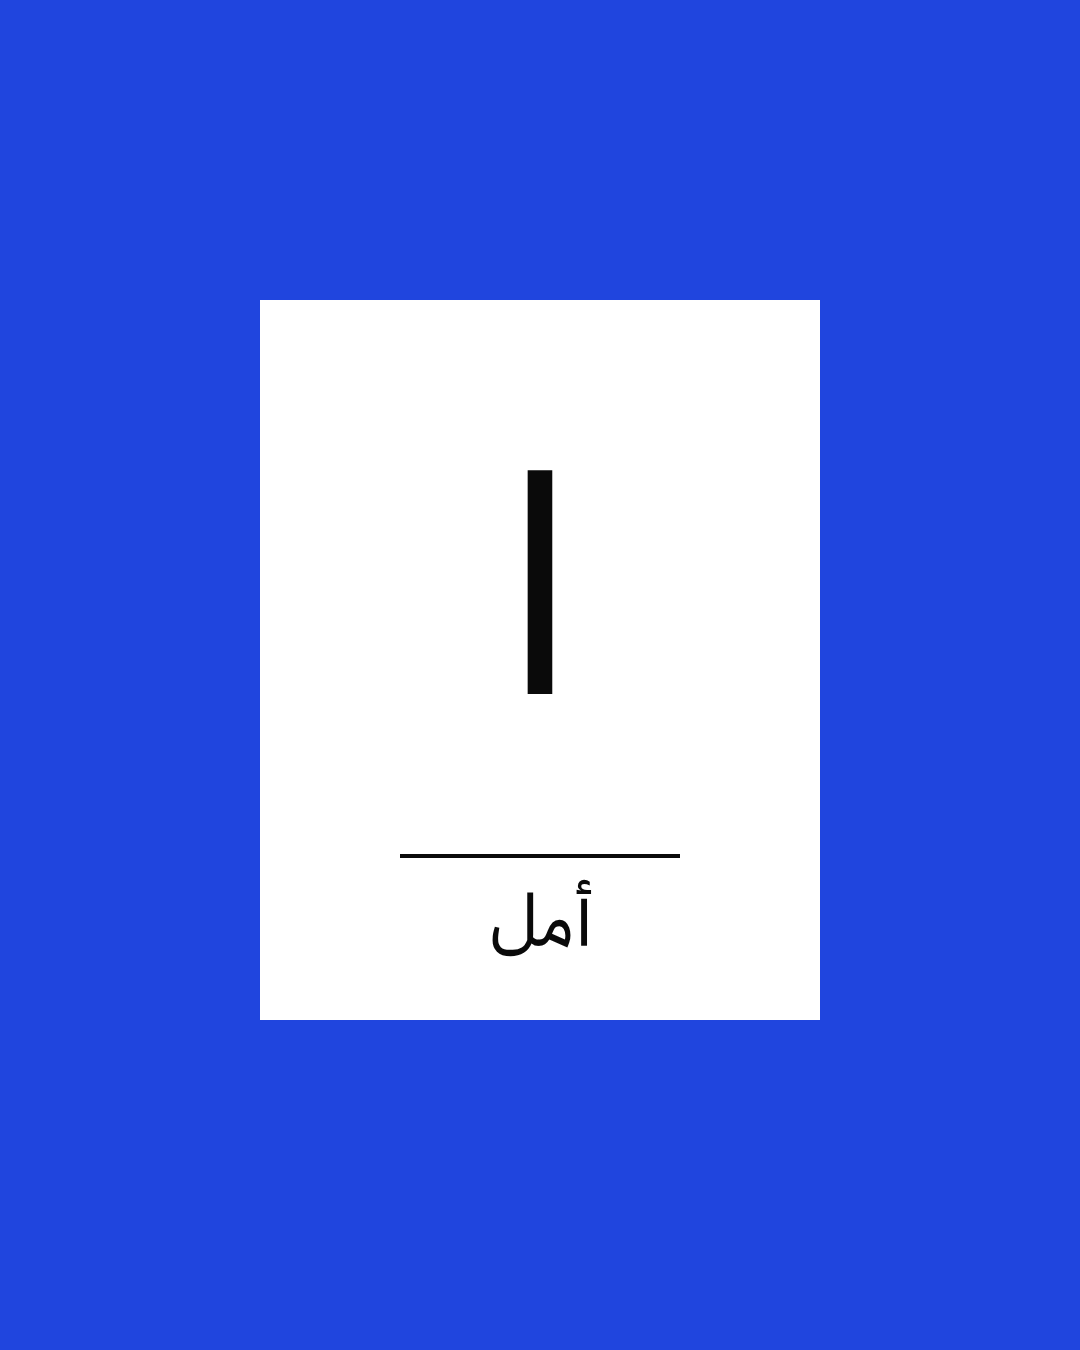
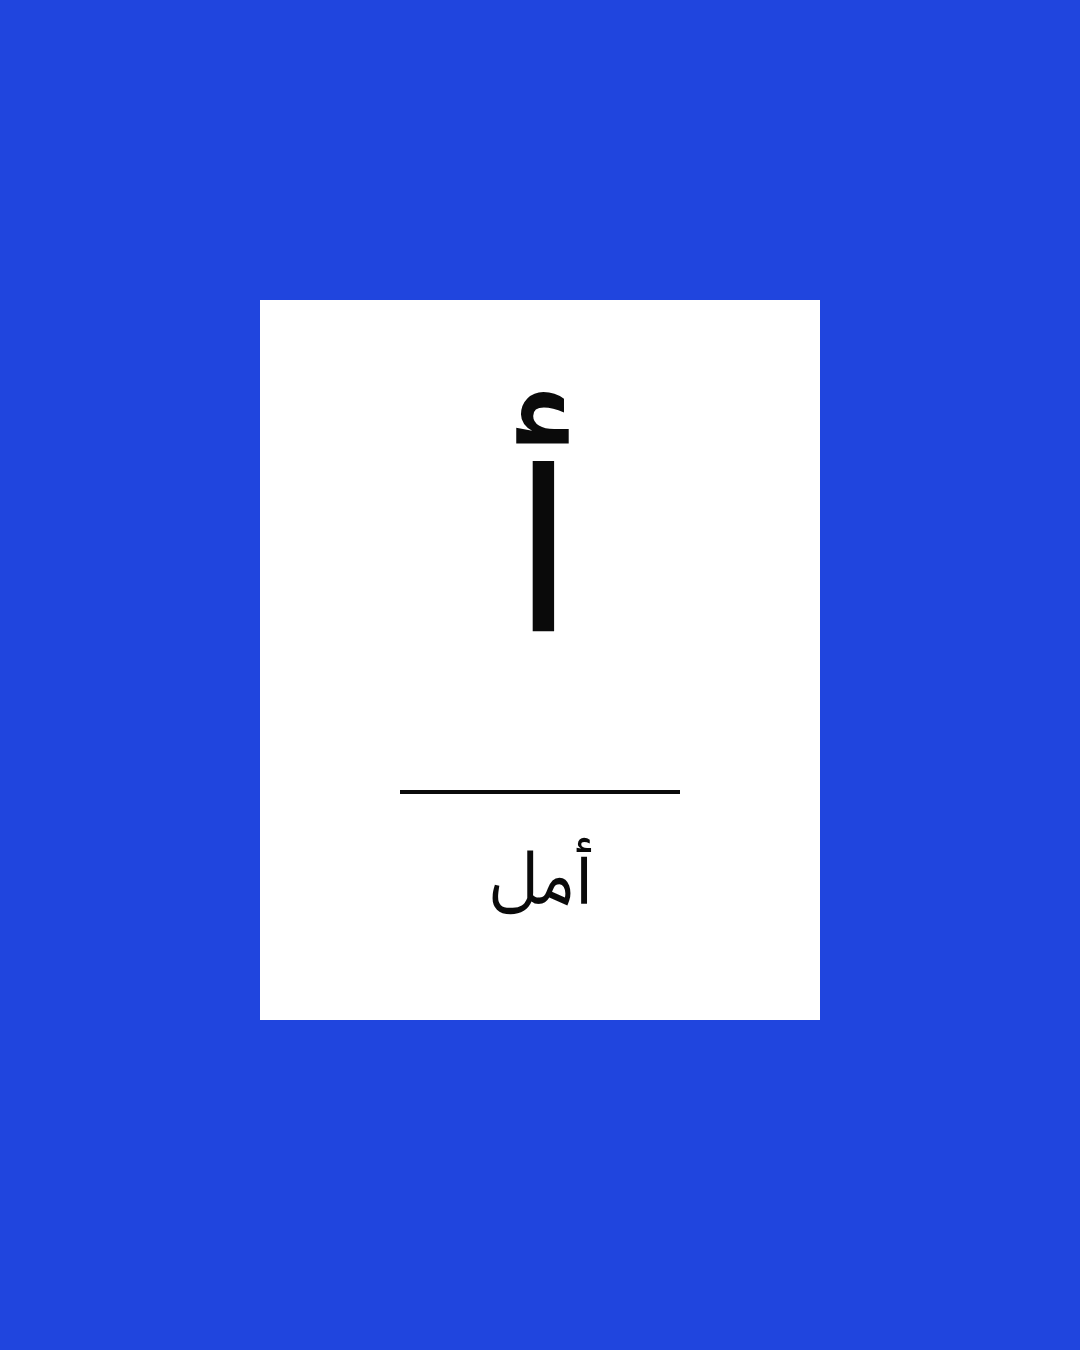
Elections: أ with its hamza, and the Arabic slips balanced against the Hebrew
Nir, 27 Oct: أمل begins with أ, so the Arabic tray and the stills carry the
alef with its hamza. The Arabic slips now share the Hebrew rule and word
line; the letters are set a touch smaller and higher so sin and hah clear
the rule, and their optical centre sits with the Hebrew letters'.

Claude-Session: https://claude.ai/code/session_01QmomKUobm2RviE4ywroAdi

Changed region(s): [[0.4583, 0.6222, 0.55, 0.7156], [0.4583, 0.28, 0.5194, 0.5289]]

diff --git a/motion/elections/elections-board.html b/motion/elections/elections-board.html
@@ -87,7 +87,7 @@ var EMBLEM={"bg": "<rect width=\"1080\" height=\"1350\" fill=\"#2045DE\"/>", "st
 var COPY={
   kalpi:{ letters:'אבגדהוזח', last:'הצבעתי', end:'הצבעתי!' },
   trayHope: { letters:'אבגדהוזחטיכלמנסעפצקרשת ', stops:'תשחי', words:{'ת':'תקווה','ש':'שלום','ח':'חיים','י':'ישראל'} },
-  trayAr: { letters:'ابتثجحخدذرزسشصضطظعغفقكلمنهوي ', stops:'اسحف', words:{'ا':'أمل','س':'سلام','ح':'حياة','ف':'فلسطين'} },
+  trayAr: { letters:'أبتثجحخدذرزسشصضطظعغفقكلمنهوي ', stops:'أسحف', words:{'أ':'أمل','س':'سلام','ح':'حياة','ف':'فلسطين'} }, /* alef with its hamza, as أمل begins */
   tray: { title:'איזו אות?', letters:'אבגדהוזחטיכלמנסעפצקרשת ', stops:'צאשת' },   // the trailing space is the blank white slip; the stops are never a party's single letter
   petek:{ title:'פתק', letters:'אבגדהוזחטיכלמנסעפצקרשת', names:{'א':'אלף','ב':'בית','ג':'גימל','ד':'דלת','ה':'הא','ו':'וו','ז':'זין','ח':'חית','ט':'טית','י':'יוד','כ':'כף','ל':'למד','מ':'מם','נ':'נון','ס':'סמך','ע':'עין','פ':'פא','צ':'צדי','ק':'קוף','ר':'ריש','ש':'שין','ת':'תו'}, final:'ל', envelope:'הבחירות לכנסת' },
   pikuach:{ mark:'עדכון מהשטח', bug:'14', third:'טוהר הבחירות', sub:'שידור חי מהקלפי', ticker:'עוד כותרת דרמטית · עוד הכרזה מוטלת בספק באמינותה · עוד שקר כלשהו · עוד סילוף מידע · עוד הטעיית ציבור · ' },
@@ -177,9 +177,9 @@ function ballotBox(){
 /* the Israeli slip: white, the letter big, its name small on a line under it */
 function slip(x,y,w,h,letter,name,size,lf,nf){
   rect(x,y,w,h,PAP);
-  var ar=lf==='arR';                               // Arabic sits high in its line: drop its baseline to centre it, and the rule and word with it
-  text(letter,{x:x,y:y+h*(ar?0.20:0.14),w:w,h:h*0.46,size:size||h*0.42,f:lf||'ext',fill:INK,fit:false});
-  if(name){ rect(x+w*0.25,y+h*(ar?0.77:0.68),w*0.5,4,INK); text(name,{x:x+w*0.06,y:y+h*(ar?0.80:0.72),w:w*0.88,h:h*(ar?0.14:0.16),size:h*(ar?0.10:0.09),f:nf||'reg',fill:INK}); }
+  var ar=lf==='arR';                               // Arabic, measured against the Hebrew: the same baseline, the same rule, the word centred where the Hebrew word is
+  text(letter,{x:x,y:y+h*(ar?0.129:0.14),w:w,h:h*0.46,size:(size||h*0.42)*(ar?0.87:1),f:lf||'ext',fill:INK,fit:false});   /* a touch smaller and higher, so sin and hah clear the rule */
+  if(name){ rect(x+w*0.25,y+h*0.68,w*0.5,4,INK); text(name,{x:x+w*0.06,y:y+h*(ar?0.73:0.72),w:w*0.88,h:h*0.16,size:h*(ar?0.10:0.09),f:nf||'reg',fill:INK}); }
 }
 /* the envelope: blue, a line of type, two paper labels, as the real one */
 function envelope(x,y,w,h){
@@ -275,7 +275,7 @@ function trayHopeShots(C,G,lf,nf){
   return out;
 }
 FILMS.trayHope={ title:'המגש · תקווה: the rounds stop on ת ש ח י, each slip with its word', shots:trayHopeShots(COPY.trayHope,TRAY,'ext','reg') };
-FILMS.trayAr={ title:'الصينية · أمل: the Arabic tray stops on ا س ح ف, each slip with its word', shots:trayHopeShots(COPY.trayAr,TRAY_AR,'arR','arR') };
+FILMS.trayAr={ title:'الصينية · أمل: the Arabic tray stops on أ س ح ف, each slip with its word', shots:trayHopeShots(COPY.trayAr,TRAY_AR,'arR','arR') };
 
 FILMS.petek={ title:'הפתק · the alphabet, a letter a half beat', shots:[
  {beats:6, note:'one slip; the letter and its name change on the half beat', draw:function(tb,fr){

diff --git a/motion/elections/hope/slips/stills.js b/motion/elections/hope/slips/stills.js
@@ -6,7 +6,7 @@ const { chromium } = require('playwright'); const fs = require('fs'); const path
   p.on('pageerror', e => console.log('pageerror', e.message));
   await p.goto('file://' + path.resolve(board)); await p.evaluate(() => window.__ready);
   await p.evaluate(() => { window.__renderMode('post'); window.__film('trayHope'); window.__frame(0); });
-  const WORDS = [['ת','תקווה','he'],['ا','أمل','ar'],['ש','שלום','he'],['س','سلام','ar'],['ח','חיים','he'],['ح','حياة','ar'],['י','ישראל','he'],['ف','فلسطين','ar']];
+  const WORDS = [['ת','תקווה','he'],['أ','أمل','ar'],['ש','שלום','he'],['س','سلام','ar'],['ח','חיים','he'],['ح','حياة','ar'],['י','ישראל','he'],['ف','فلسطين','ar']];
   const GROUNDS = ['blue','red','yellow','grey'];
   for (const g of GROUNDS) for (let i = 0; i < WORDS.length; i++) {
     const [l, w, lang] = WORDS[i];
